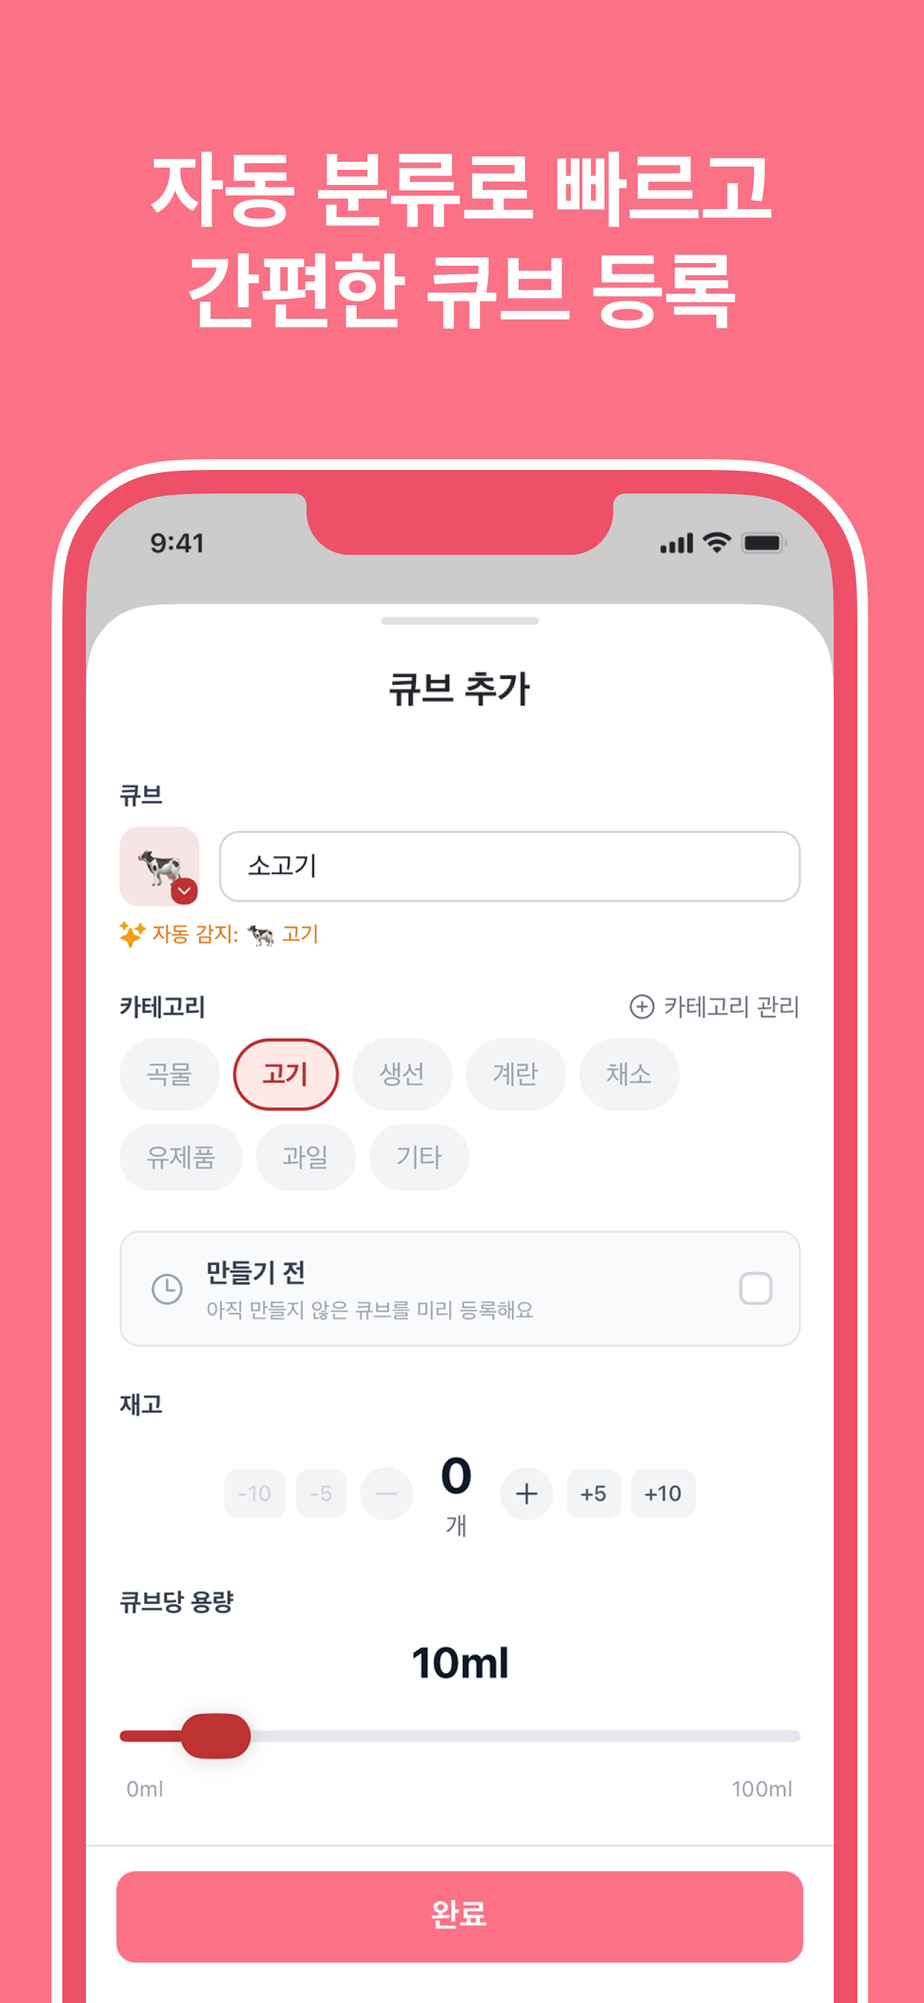
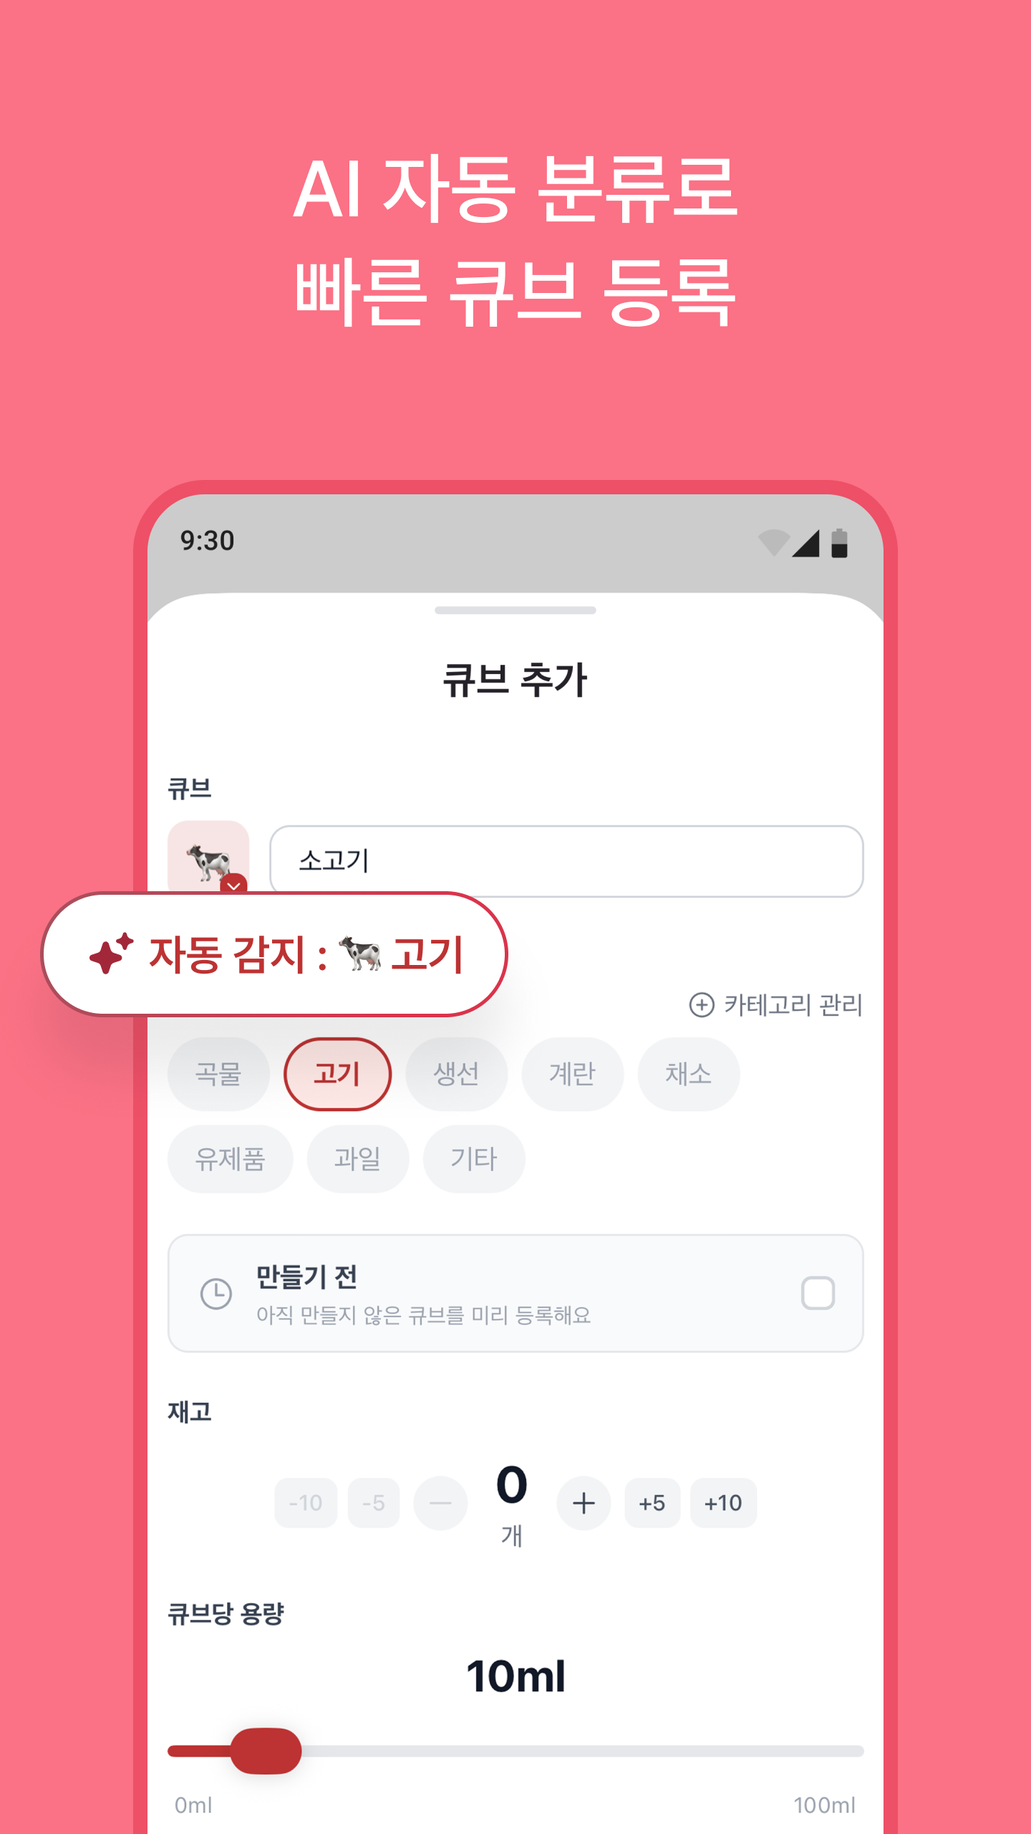
Update homepage screenshots and copy to reflect latest app features (#1)
Replace 7 screenshots with 6 new ones matching current app UI.
Rewrite all showcase sections, feature cards, hero, CTA, and SEO meta
to highlight key benefits: smart meal tracking, auto cube calculation,
nutrition balance, AI category detection, and partner sharing.

diff --git a/index.html b/index.html
@@ -4,7 +4,7 @@
   <meta charset="UTF-8">
   <meta name="viewport" content="width=device-width, initial-scale=1.0">
   <title>Babeat - 스마트 이유식 관리 앱</title>
-  <meta name="description" content="베이빗(Babeat)는 아기 이유식 큐브 재고 관리부터 주간 식단 계획까지, 이유식의 모든 것을 한 곳에서 관리하는 스마트 앱입니다.">
+  <meta name="description" content="베이빗(Babeat)는 이유식 큐브 재고 관리, 영양 균형 확인, AI 자동 분류, 필요 큐브 자동 계산까지 — 먹은것, 먹일것을 한번에 관리하는 스마트 이유식 앱입니다.">
   <meta name="keywords" content="이유식, 이유식 앱, 이유식 관리, 아기 이유식, 이유식 큐브, 이유식 식단, 이유식 재고 관리, 베이빗, Babeat, 육아 앱">
   <link rel="canonical" href="https://babeat.yonahalab.com/">
   <link rel="icon" type="image/png" sizes="32x32" href="favicon-32x32.png">
@@ -15,7 +15,7 @@
   <!-- Open Graph -->
   <meta property="og:type" content="website">
   <meta property="og:title" content="Babeat - 스마트 이유식 관리 앱">
-  <meta property="og:description" content="큐브 재고 관리부터 주간 식단 계획까지, 이유식의 모든 것을 한 곳에서 관리하세요.">
+  <meta property="og:description" content="식단 기록, 재고 관리, 영양 균형, AI 자동 분류까지 — 먹은것, 먹일것을 한번에 관리하세요.">
   <meta property="og:url" content="https://babeat.yonahalab.com/">
   <meta property="og:image" content="https://babeat.yonahalab.com/images/og-image.png">
   <meta property="og:site_name" content="Babeat">
@@ -24,7 +24,7 @@
   <!-- Twitter Card -->
   <meta name="twitter:card" content="summary_large_image">
   <meta name="twitter:title" content="Babeat - 스마트 이유식 관리 앱">
-  <meta name="twitter:description" content="큐브 재고 관리부터 주간 식단 계획까지, 이유식의 모든 것을 한 곳에서 관리하세요.">
+  <meta name="twitter:description" content="식단 기록, 재고 관리, 영양 균형, AI 자동 분류까지 — 먹은것, 먹일것을 한번에 관리하세요.">
   <meta name="twitter:image" content="https://babeat.yonahalab.com/images/og-image.png">
 
   <!-- Structured Data -->
@@ -33,7 +33,7 @@
     "@context": "https://schema.org",
     "@type": "MobileApplication",
     "name": "Babeat - 스마트 이유식 관리 앱",
-    "description": "베이빗(Babeat)는 아기 이유식 큐브 재고 관리부터 주간 식단 계획까지, 이유식의 모든 것을 한 곳에서 관리하는 스마트 앱입니다.",
+    "description": "베이빗(Babeat)는 이유식 큐브 재고 관리, 영양 균형 확인, AI 자동 분류, 필요 큐브 자동 계산까지 — 먹은것, 먹일것을 한번에 관리하는 스마트 이유식 앱입니다.",
     "operatingSystem": "Android, iOS",
     "applicationCategory": "LifestyleApplication",
     "offers": {
@@ -210,7 +210,8 @@
       transform: translateY(-8px);
     }
     .hero-screenshots img:nth-child(2),
-    .hero-screenshots img:nth-child(4) {
+    .hero-screenshots img:nth-child(4),
+    .hero-screenshots img:nth-child(6) {
       margin-top: 32px;
     }
 
@@ -291,7 +292,6 @@
     }
     .showcase-text ul {
       list-style: none;
-      padding: 0;
     }
     .showcase-text ul li {
       font-size: 15px;
@@ -443,7 +443,8 @@
       .hero-screenshots { gap: 12px; }
       .hero-screenshots img { width: 160px; border-radius: 18px; }
       .hero-screenshots img:nth-child(2),
-      .hero-screenshots img:nth-child(4) { margin-top: 20px; }
+      .hero-screenshots img:nth-child(4),
+      .hero-screenshots img:nth-child(6) { margin-top: 20px; }
       .showcase-inner,
       .showcase-inner.reverse {
         flex-direction: column;
@@ -455,7 +456,6 @@
       .showcase-text ul li { justify-content: center; }
       .features-grid { grid-template-columns: 1fr; }
       .section-title { font-size: 28px; }
-      .cta .section-title { font-size: 28px; }
       .footer-inner { flex-direction: column; }
     }
   </style>
@@ -478,8 +478,8 @@
   <!-- Hero -->
   <section class="hero">
     <div class="hero-badge">Yonaha Lab</div>
-    <h1>이유식의 모든 것,<br><span>Babeat</span> 하나로</h1>
-    <p>큐브 재고 관리부터 주간 식단 계획까지.<br>바쁜 육아 속에서도 체계적인 이유식 관리를 도와드려요.</p>
+    <h1>먹은것, 먹일것을 한번에<br><span>스마트한</span> 이유식 관리</h1>
+    <p>식단 기록부터 큐브 재고, 영양 균형, AI 자동 분류까지.<br>이유식의 모든 것을 베이빗 하나로 관리하세요.</p>
     <div class="hero-buttons">
       <a href="https://apps.apple.com/kr/app/babeat/id6759101056" class="btn btn-primary">
         <svg viewBox="0 0 24 24" fill="currentColor"><path d="M17.05 20.28c-.98.95-2.05.8-3.08.35-1.09-.46-2.09-.48-3.24 0-1.44.62-2.2.44-3.06-.35C2.79 15.25 3.51 7.59 9.05 7.31c1.35.07 2.29.74 3.08.8 1.18-.24 2.31-.93 3.57-.84 1.51.12 2.65.72 3.4 1.8-3.12 1.87-2.38 5.98.48 7.13-.57 1.5-1.31 2.99-2.54 4.09zM12.03 7.25c-.15-2.23 1.66-4.07 3.74-4.25.29 2.58-2.34 4.5-3.74 4.25z"/></svg>
@@ -493,13 +493,12 @@
 
     <!-- Hero Screenshots -->
     <div class="hero-screenshots">
-      <img src="images/screenshot-home.png" alt="베이빗 홈 화면 - 아기 정보와 큐브 현황, 오늘의 식단을 한눈에">
-      <img src="images/screenshot-intro.png" alt="베이빗 소개 - 먹은 것, 먹일 것, 만들 것을 한번에 관리">
-      <img src="images/screenshot-meal-detail.png" alt="식단 상세 - 영양 균형과 큐브 구성 확인, 소진 완료 처리">
-      <img src="images/screenshot-add-cube.png" alt="큐브 추가 - 자동 카테고리 분류와 용량 설정">
-      <img src="images/screenshot-cube-manage.png" alt="큐브 관리 - 카테고리별 재고 현황과 사용 예정 추적">
-      <img src="images/screenshot-profile.png" alt="아기 프로필 - 아기 관리와 공동 양육자 연결">
-      <img src="images/screenshot-add-meal.png" alt="식단 추가 - 이전 식단 불러오기와 빠른 등록">
+      <img src="images/screenshot-home.png" alt="베이빗 홈 화면 - 식단과 재고를 하나로, 스마트한 이유식 관리">
+      <img src="images/screenshot-cube-calc.png" alt="큐브 자동 계산 - 선택한 날짜에 필요한 큐브를 자동 계산">
+      <img src="images/screenshot-meal-detail.png" alt="영양 균형 - 우리아이 영양 균형 한눈에 확인">
+      <img src="images/screenshot-cube-manage.png" alt="큐브 관리 - 내 냉장고와 완벽 싱크">
+      <img src="images/screenshot-add-cube.png" alt="큐브 등록 - AI 자동 분류로 빠른 큐브 등록">
+      <img src="images/screenshot-profile.png" alt="프로필 - 만들 사람, 먹일 사람 모두 함께 관리">
     </div>
   </section>
 
@@ -514,93 +513,93 @@
         </div>
         <div class="showcase-text">
           <div class="badge" style="background: var(--primary-light); color: var(--primary);">Home</div>
-          <h2>식단과 재고를 하나로<br>간편한 이유식 관리</h2>
-          <p>홈 화면에서 아기의 D-day, 큐브 현황, 오늘의 식단을 한눈에 확인하세요.</p>
+          <h2>식단과 재고를 하나로<br>스마트한 이유식 관리</h2>
+          <p>아기의 D-day, 다음주까지 필요한 큐브, 주간 캘린더를 한 화면에서 확인하세요. 식단 완료 한 번이면 큐브가 자동으로 소진됩니다.</p>
           <ul>
-            <li>아기 프로필과 D-day 자동 계산</li>
-            <li>큐브 현황을 카테고리별로 한눈에 확인</li>
-            <li>주간 식단 타임라인과 캘린더 뷰</li>
-            <li>식사 시간과 사용 큐브를 빠르게 확인</li>
+            <li>아기 D-day와 다음주까지 필요한 큐브 한눈에 확인</li>
+            <li>주간 캘린더에서 매일의 식단 일정 관리</li>
+            <li>식단 완료 버튼으로 큐브 자동 소진 처리</li>
+            <li>식사 시간과 사용된 큐브를 빠르게 파악</li>
           </ul>
         </div>
       </div>
     </section>
 
-    <!-- Showcase 2: Intro / Sharing -->
+    <!-- Showcase 2: Cube Calculation -->
     <section class="showcase">
       <div class="showcase-inner reverse">
         <div class="showcase-image">
-          <img src="images/screenshot-intro.png" alt="베이빗 소개">
+          <img src="images/screenshot-cube-calc.png" alt="큐브 자동 계산 화면">
         </div>
         <div class="showcase-text">
-          <div class="badge" style="background: #EDE9FE; color: #7C3AED;">Share</div>
-          <h2>먹은 것, 먹일 것, 만들 것<br>한번에 정리하고 공유</h2>
-          <p>파트너와 초대 코드로 아기 정보를 공유하고, 함께 이유식을 관리하세요.</p>
+          <div class="badge" style="background: #FEE2E2; color: #991B1B;">Smart Calc</div>
+          <h2>선택한 날짜에 필요한<br>큐브를 자동 계산</h2>
+          <p>원하는 날짜까지 필요한 큐브 수량과 현재 재고를 비교해, 부족한 재료를 미리 알려드려요.</p>
           <ul>
-            <li>초대 코드로 간편한 가족 공유</li>
-            <li>실시간 클라우드 동기화</li>
-            <li>여러 아기 프로필 관리 지원</li>
-            <li>어떤 기기에서든 동일한 데이터 접근</li>
+            <li>날짜 선택만으로 필요 큐브 자동 계산</li>
+            <li>항목별 필요 수량과 현재 재고 비교 표시</li>
+            <li>부족·충분 상태를 한눈에 파악</li>
+            <li>소비기한 임박 큐브 경고 알림</li>
           </ul>
         </div>
       </div>
     </section>
 
-    <!-- Showcase 3: Meal Detail -->
+    <!-- Showcase 3: Nutrition Balance -->
     <section class="showcase">
       <div class="showcase-inner">
         <div class="showcase-image">
-          <img src="images/screenshot-meal-detail.png" alt="식단 상세 화면">
+          <img src="images/screenshot-meal-detail.png" alt="영양 균형 확인 화면">
         </div>
         <div class="showcase-text">
-          <div class="badge" style="background: #D1FAE5; color: #065F46;">Meal Plan</div>
-          <h2>식단은 기록하고<br>재고는 자동 반영</h2>
-          <p>식단별 영양 균형을 확인하고, 소진 처리 한 번으로 재고가 자동 차감됩니다.</p>
+          <div class="badge" style="background: #D1FAE5; color: #065F46;">Nutrition</div>
+          <h2>우리아이 영양 균형<br>한눈에 확인</h2>
+          <p>매 식사의 탄수화물, 단백질, 비타민·무기질 비율을 시각적으로 보여드려요. 균형 잡힌 이유식을 쉽게 계획하세요.</p>
           <ul>
-            <li>탄수화물·단백질·비타민 영양 균형 시각화</li>
-            <li>포함된 큐브의 종류, 수량, 총량 표시</li>
-            <li>소진 완료 처리 시 재고 자동 차감</li>
-            <li>이전 식단 불러오기로 빠른 식단 구성</li>
+            <li>탄수화물·단백질·비타민 영양 비율 시각화</li>
+            <li>포함된 큐브의 종류, 수량, 총량 한눈에 표시</li>
+            <li>식단 완료 시 큐브 재고 자동 차감</li>
+            <li>날짜별 식단 기록으로 성장 과정 추적</li>
           </ul>
         </div>
       </div>
     </section>
 
-    <!-- Showcase 4: Add Cube -->
+    <!-- Showcase 4: Cube Management -->
     <section class="showcase">
       <div class="showcase-inner reverse">
         <div class="showcase-image">
-          <img src="images/screenshot-add-cube.png" alt="큐브 추가 화면">
+          <img src="images/screenshot-cube-manage.png" alt="큐브 관리 화면">
         </div>
         <div class="showcase-text">
-          <div class="badge" style="background: #FEF3C7; color: #92400E;">Add Cube</div>
-          <h2>자동 분류로 빠르고<br>간편한 큐브 등록</h2>
-          <p>이름만 입력하면 카테고리와 아이콘을 자동으로 감지해 빠르게 등록할 수 있어요.</p>
+          <div class="badge" style="background: #DBEAFE; color: #1E40AF;">Inventory</div>
+          <h2>꼭 필요한 정보만 모아<br>내 냉장고와 완벽 싱크</h2>
+          <p>곡물, 고기, 계란, 채소 등 카테고리별로 큐브를 정리하고 재고 현황을 실시간으로 관리하세요.</p>
           <ul>
-            <li>이름 입력 시 카테고리·아이콘 자동 감지</li>
-            <li>곡물, 고기, 채소 등 8가지 카테고리 분류</li>
-            <li>슬라이더로 큐브 용량 간편 설정</li>
+            <li>카테고리별 큐브 필터와 검색 기능</li>
+            <li>제작일, 재고 수량, 사용 예정 현황 표시</li>
+            <li>소비기한 임박 큐브 알림으로 식재료 낭비 방지</li>
             <li>"만들기 전" 큐브로 미리 식단 계획 가능</li>
           </ul>
         </div>
       </div>
     </section>
 
-    <!-- Showcase 5: Cube Management -->
+    <!-- Showcase 5: AI Add Cube -->
     <section class="showcase">
       <div class="showcase-inner">
         <div class="showcase-image">
-          <img src="images/screenshot-cube-manage.png" alt="큐브 관리 화면">
+          <img src="images/screenshot-add-cube.png" alt="큐브 등록 화면">
         </div>
         <div class="showcase-text">
-          <div class="badge" style="background: #FEE2E2; color: #991B1B;">Inventory</div>
-          <h2>필요 수량 확인과 재고<br>상태 관리를 한번에</h2>
-          <p>카테고리별 재고 현황을 확인하고, 날짜별로 필요한 큐브 수량을 자동 계산합니다.</p>
+          <div class="badge" style="background: #FEF3C7; color: #92400E;">AI Cube</div>
+          <h2>AI 자동 분류로<br>빠른 큐브 등록</h2>
+          <p>큐브 이름만 입력하면 AI가 카테고리를 자동으로 감지해요. 번거로운 분류 없이 빠르게 등록하세요.</p>
           <ul>
-            <li>카테고리별 큐브 목록과 재고 현황</li>
-            <li>사용 예정 수량 표시로 가용 재고 파악</li>
-            <li>날짜별 필요 큐브 계산 기능</li>
-            <li>소비기한 임박 큐브 경고 표시</li>
+            <li>이름 입력 시 AI가 카테고리 자동 감지</li>
+            <li>곡물, 고기, 생선, 계란, 채소 등 8가지 분류</li>
+            <li>슬라이더로 큐브당 용량 간편 설정</li>
+            <li>재고 수량 직관적 입력</li>
           </ul>
         </div>
       </div>
@@ -610,37 +609,17 @@
     <section class="showcase">
       <div class="showcase-inner reverse">
         <div class="showcase-image">
-          <img src="images/screenshot-profile.png" alt="아기 프로필 화면">
+          <img src="images/screenshot-profile.png" alt="프로필 화면">
         </div>
         <div class="showcase-text">
-          <div class="badge" style="background: #FCE7F3; color: #BE185D;">Profile</div>
-          <h2>아기 관리와<br>공동 양육자 연결</h2>
-          <p>아기 프로필을 등록하고 D-day를 자동으로 추적하세요. 초대 코드로 파트너와 함께 관리할 수 있어요.</p>
+          <div class="badge" style="background: #FCE7F3; color: #BE185D;">Together</div>
+          <h2>만들 사람, 먹일 사람<br>모두 함께 관리</h2>
+          <p>아기 프로필을 등록하고 D-day를 자동으로 추적하세요. 파트너를 초대해 이유식 정보를 함께 관리할 수 있어요.</p>
           <ul>
             <li>아기 이름, 생년월일, 프로필 사진 등록</li>
             <li>D-day 자동 계산 및 표시</li>
-            <li>초대 코드로 공동 양육자 연결</li>
+            <li>초대 코드로 파트너와 공동 관리</li>
             <li>여러 아기 프로필 전환 지원</li>
-          </ul>
-        </div>
-      </div>
-    </section>
-
-    <!-- Showcase 7: Add Meal Plan -->
-    <section class="showcase">
-      <div class="showcase-inner">
-        <div class="showcase-image">
-          <img src="images/screenshot-add-meal.png" alt="식단 추가 화면">
-        </div>
-        <div class="showcase-text">
-          <div class="badge" style="background: #DBEAFE; color: #1E40AF;">Meal Plan</div>
-          <h2>이전 식단을 불러오고<br>빠르게 등록</h2>
-          <p>날짜와 시간을 선택하고, 이전 식단을 불러와 큐브를 빠르게 구성할 수 있어요.</p>
-          <ul>
-            <li>이전 식단 불러오기로 빠른 식단 구성</li>
-            <li>카테고리별 큐브 필터로 편리한 선택</li>
-            <li>가용 재고와 사용 예정 수량 실시간 확인</li>
-            <li>최근 식사 시간 자동 추천</li>
           </ul>
         </div>
       </div>
@@ -657,34 +636,34 @@
 
       <div class="features-grid">
         <div class="feature-card">
-          <div class="feature-icon" style="background: #FEF3C7;">🧊</div>
-          <h3>큐브 재고 관리</h3>
-          <p>곡물, 고기, 채소, 생선 등 카테고리별로 이유식 큐브를 등록하고 재고와 소비기한을 한눈에 확인하세요.</p>
+          <div class="feature-icon" style="background: var(--primary-light);">🧊</div>
+          <h3>식단 완료로 자동 소진</h3>
+          <p>식단 완료 버튼 한 번이면 사용한 큐브가 자동 차감돼요. 매번 재고를 수동으로 수정할 필요가 없어요.</p>
         </div>
         <div class="feature-card">
-          <div class="feature-icon" style="background: #DBEAFE;">📅</div>
-          <h3>주간 식단 계획</h3>
-          <p>주간 캘린더에서 매일의 식단을 계획하고, 이전 식단을 불러와 빠르게 구성할 수 있어요.</p>
+          <div class="feature-icon" style="background: #FEE2E2;">📊</div>
+          <h3>필요 큐브 자동 계산</h3>
+          <p>원하는 날짜까지 필요한 큐브 수량을 자동으로 계산하고, 부족한 재료를 미리 알려드려요.</p>
         </div>
         <div class="feature-card">
-          <div class="feature-icon" style="background: #D1FAE5;">📊</div>
-          <h3>가용 재고 추적</h3>
-          <p>식단에 배정된 큐브를 자동으로 계산해, 실제 사용 가능한 가용 재고를 정확히 알려드려요.</p>
+          <div class="feature-icon" style="background: #D1FAE5;">🥗</div>
+          <h3>영양 균형 시각화</h3>
+          <p>탄수화물, 단백질, 비타민 비율을 한눈에 확인하고 균형 잡힌 이유식을 계획하세요.</p>
         </div>
         <div class="feature-card">
-          <div class="feature-icon" style="background: #FEE2E2;">👶</div>
-          <h3>다중 아기 지원</h3>
-          <p>여러 아기의 이유식을 각각 관리하고, 아기별 프로필과 D-day를 추적하세요.</p>
+          <div class="feature-icon" style="background: #DBEAFE;">🗂</div>
+          <h3>냉장고 완벽 싱크</h3>
+          <p>카테고리별 큐브 재고, 소비기한, 사용 예정 수량까지 내 냉장고 상태를 정확히 파악하세요.</p>
         </div>
         <div class="feature-card">
-          <div class="feature-icon" style="background: #EDE9FE;">👨👩👧</div>
-          <h3>가족 공유</h3>
-          <p>초대 코드를 통해 파트너와 함께 아기의 이유식 정보를 실시간으로 공유하세요.</p>
+          <div class="feature-icon" style="background: #FEF3C7;">🤖</div>
+          <h3>AI 자동 카테고리 분류</h3>
+          <p>큐브 이름만 입력하면 AI가 카테고리를 자동 감지해요. 번거로운 분류 없이 빠르게 등록하세요.</p>
         </div>
         <div class="feature-card">
-          <div class="feature-icon" style="background: #FCE7F3;">🔄</div>
-          <h3>실시간 동기화</h3>
-          <p>모든 데이터가 클라우드에 안전하게 저장되고, 여러 기기에서 실시간으로 동기화됩니다.</p>
+          <div class="feature-icon" style="background: #FCE7F3;">👨👩👧</div>
+          <h3>파트너와 함께 관리</h3>
+          <p>초대 코드로 파트너를 연결하면 이유식 정보가 실시간으로 동기화돼요. 만들 사람, 먹일 사람 모두 함께.</p>
         </div>
       </div>
     </div>
@@ -693,8 +672,8 @@
   <!-- CTA -->
   <section class="cta">
     <div class="section-inner">
-      <div class="section-title">지금 바로 시작하세요</div>
-      <div class="section-desc">베이빗과 함께 체계적인 이유식 관리를 경험해 보세요.</div>
+      <div class="section-title">이유식, 더 쉽게 시작하세요</div>
+      <div class="section-desc">식단 기록, 재고 관리, 영양 균형까지. 베이빗 하나면 충분해요.</div>
       <div class="hero-buttons">
         <a href="https://apps.apple.com/kr/app/babeat/id6759101056" class="btn btn-primary">
           <svg viewBox="0 0 24 24" fill="currentColor"><path d="M17.05 20.28c-.98.95-2.05.8-3.08.35-1.09-.46-2.09-.48-3.24 0-1.44.62-2.2.44-3.06-.35C2.79 15.25 3.51 7.59 9.05 7.31c1.35.07 2.29.74 3.08.8 1.18-.24 2.31-.93 3.57-.84 1.51.12 2.65.72 3.4 1.8-3.12 1.87-2.38 5.98.48 7.13-.57 1.5-1.31 2.99-2.54 4.09zM12.03 7.25c-.15-2.23 1.66-4.07 3.74-4.25.29 2.58-2.34 4.5-3.74 4.25z"/></svg>
